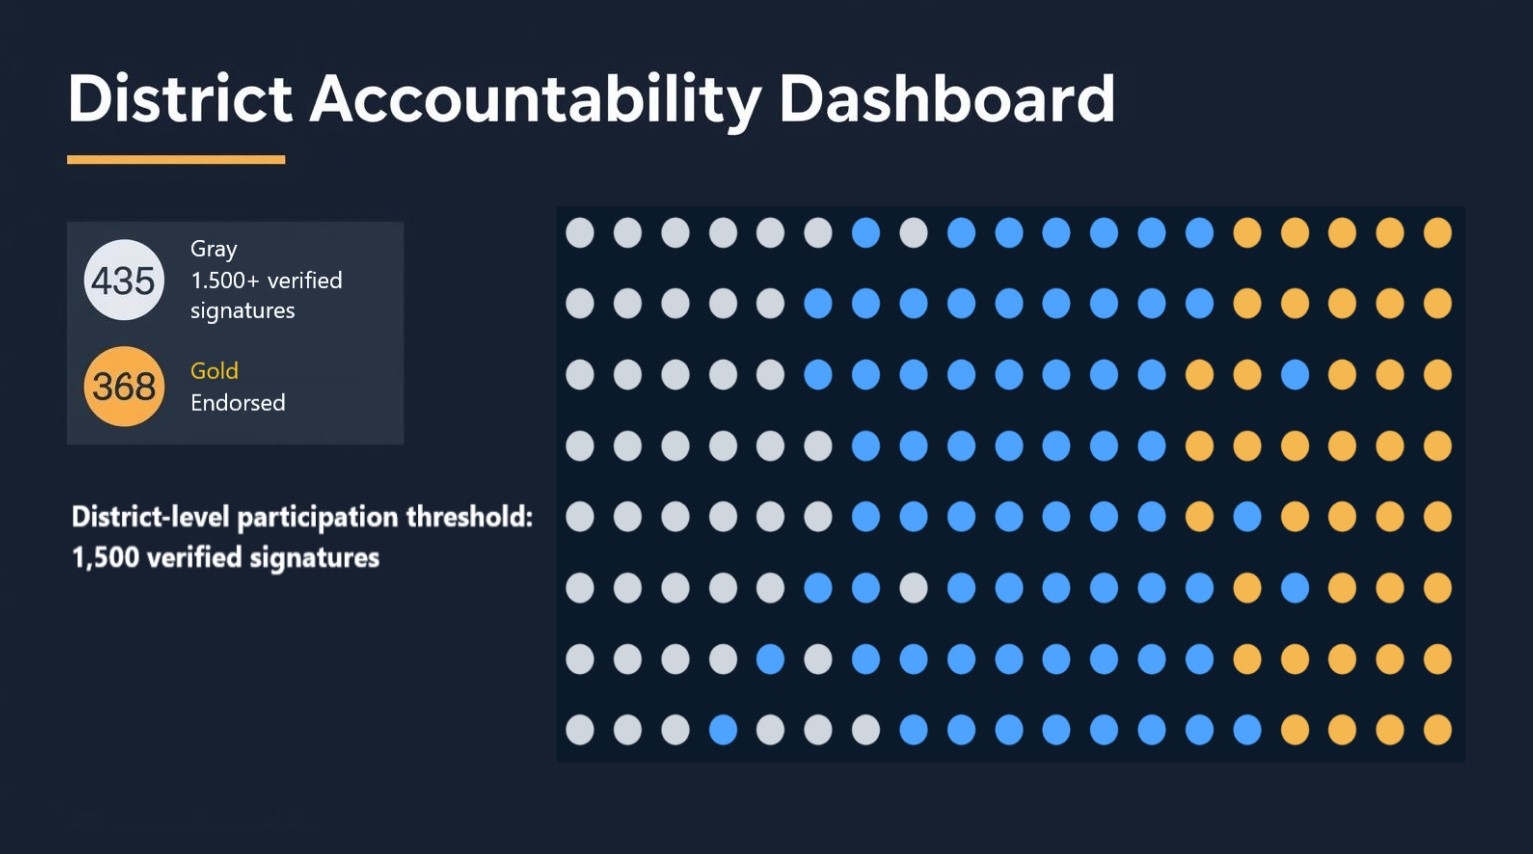
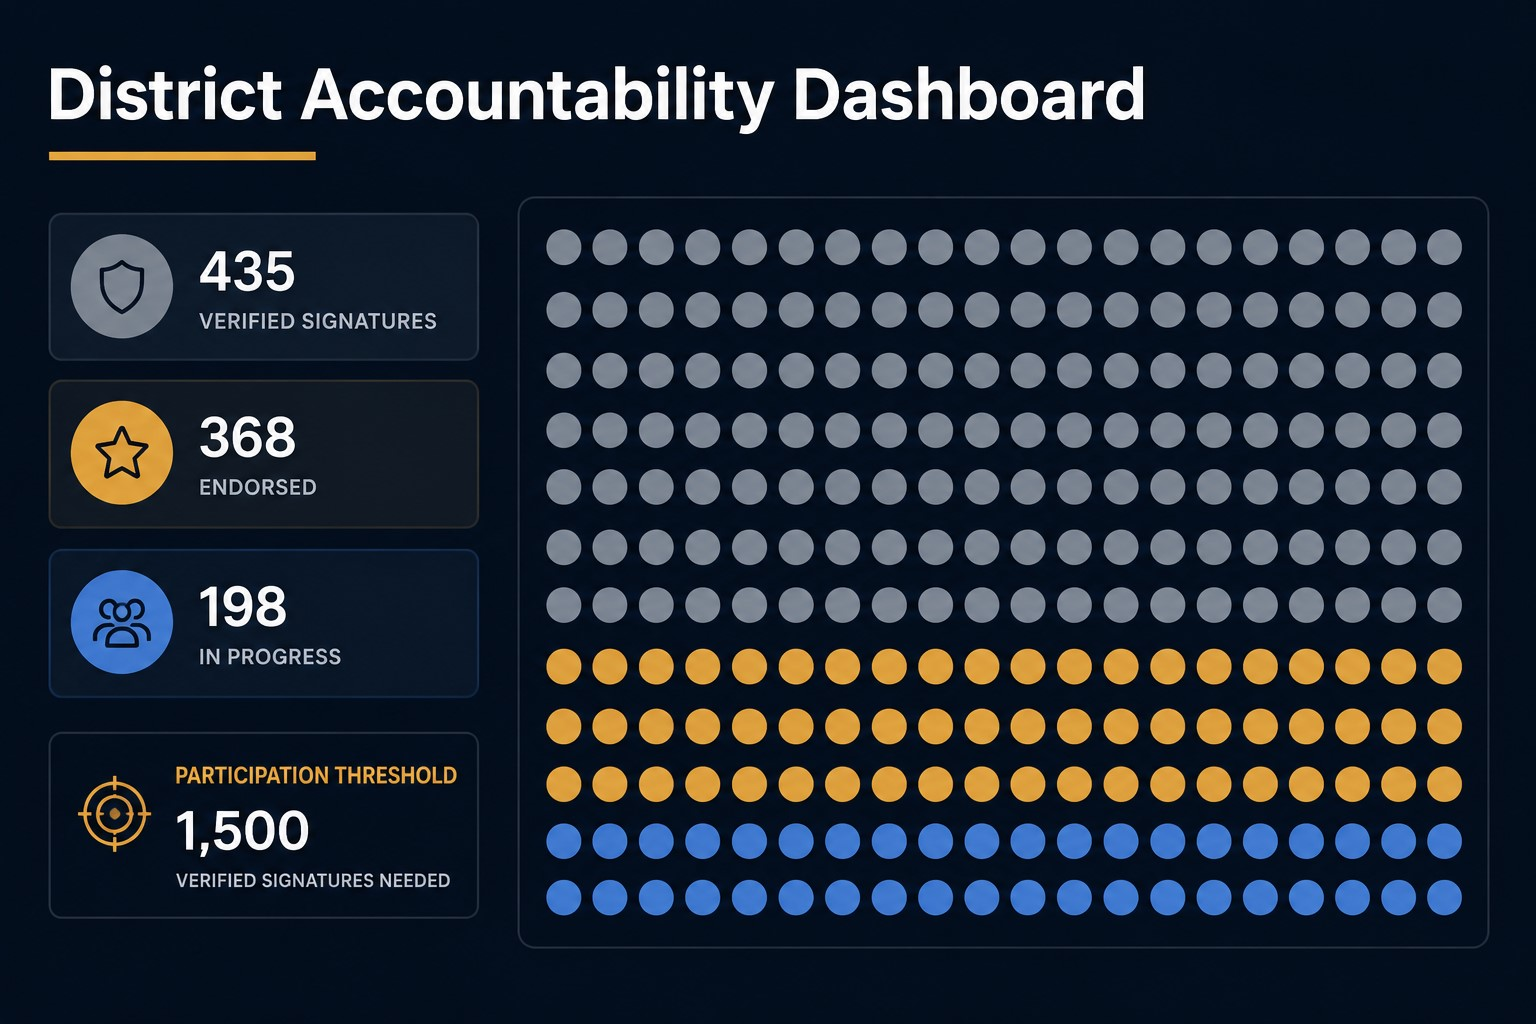
deploy: added changed image on modal to a real lever

diff --git a/app/Prophecy/movement/page.tsx b/app/Prophecy/movement/page.tsx
@@ -192,6 +192,38 @@ export default function MovementPage() {
           </p>
         </section>
 
+        {/* FAMILIES — ported from retired Unbreakable page */}
+        <section className="max-w-4xl mx-auto px-5 py-20 border-t border-gray-800">
+          <h2 className="text-3xl sm:text-4xl md:text-5xl font-bold leading-tight mb-6">Why They Asked Me</h2>
+          <div className="grid md:grid-cols-3 gap-6 items-start">
+            <div className="space-y-4">
+              <img src="/images/trilogy/Me_w_Tuskegee_Airman_George_SpankyRoberts_Family.jpg" alt="Will Price with the family of Tuskegee Airman George 'Spanky' Roberts" className="w-full rounded-lg grayscale" />
+              <img src="/images/trilogy/Me_n_Dad_at_CHURCH.jpg" alt="Will and Dad at the church Dad built" className="w-full rounded-lg grayscale" />
+            </div>
+            <div className="md:col-span-2 space-y-4 text-gray-300 text-lg">
+              <p className="font-semibold text-white">The families of the men of the 761st and the Tuskegee Airmen asked me to speak for them.</p>
+              <p>I have pictures of us together. Real photos. Real people. Real trust.</p>
+              <p>They didn't ask a university. They didn't ask a museum. They didn't ask a politician.</p>
+              <p className="font-bold text-white">They asked me — Will Price, founder of PHIERS.</p>
+              <p>Because they know their fathers and grandfathers — the men of the 761st, the Tuskegee Airmen, the forgotten battalions — never got their full story told. The government erased it. The textbooks left it out.</p>
+              <p>But the families remember. And they chose PHIERS to carry the record.</p>
+              <p className="font-bold text-white">That is not leverage we manufactured. That is leverage we were given.</p>
+              <p>And we will use it to build a future those men would be proud of — not just for Black men, but for all of humanity.</p>
+            </div>
+          </div>
+        </section>
+
+        {/* CONVICT LEASING — ported from retired Unforgettable page */}
+        <section className="max-w-4xl mx-auto px-5 py-20 border-t border-gray-800">
+          <h2 className="text-3xl sm:text-4xl md:text-5xl font-bold leading-tight mb-6">Freedom on Paper</h2>
+          <div className="space-y-4 text-gray-300 text-lg">
+            <p className="font-semibold text-white">Slavery ended on paper in 1865. The labor never stopped.</p>
+            <p>In most Southern states, Black men were immediately re-arrested after emancipation — on charges like vagrancy, "idleness," or looking at someone wrong — and leased back to plantations and mines as convict labor.</p>
+            <p>The 13th Amendment allowed it. It ran until 1941 in some states. Nearly 80 years after freedom was declared.</p>
+            <p>The men who lived through this were not criminals. They were a workforce — re-enslaved by another name, documented and legal.</p>
+          </div>
+        </section>
+
         {/* WHAT PHIERS BUILDS */}
         <section className="max-w-4xl mx-auto px-5 py-20 border border-gray-800 rounded-2xl bg-[#0b0b0b]">
           <h2 className="text-3xl sm:text-4xl md:text-5xl font-bold leading-tight mb-6">What PHIERS Builds</h2>
@@ -351,21 +383,44 @@ export default function MovementPage() {
           <p className="text-xl font-semibold mt-6">The future belongs to organized men.</p>
         </section>
 
-        {/* Closing CTA */}
+        {/* TIMELINE ADVANTAGE — ported from retired Unstoppable page */}
+        <section className="max-w-4xl mx-auto px-5 py-20 border-t border-gray-800">
+          <h2 className="text-3xl sm:text-4xl md:text-5xl font-bold leading-tight mb-6">Our Timeline, Not Theirs</h2>
+          <div className="space-y-4 text-gray-300 text-lg">
+            <p>Everyone else is focused on the midterms. That means they're playing on their timeline.</p>
+            <p className="font-bold text-white">We're playing on ours.</p>
+            <p>PHIERS works between elections. It works in every district. A member of Congress doesn't need a clean election to feel pressure.</p>
+            <p className="font-semibold text-white">This is how we move now. This is how we protect ourselves. This is how we protect everybody else.</p>
+          </div>
+        </section>
+
+        {/* CLOSING REFRAME — ported from retired Unforgettable page */}
+        <section className="max-w-3xl mx-auto px-5 py-16 text-center">
+          <p className="text-gray-200 text-lg leading-relaxed">
+            Once you see the structure, something shifts.<br />
+            You stop blaming yourself.<br />
+            You stop shrinking.<br />
+            You stop carrying weight that was never yours.
+          </p>
+        </section>
+
+        {/* Closing CTA — now a Step 3 transition to Leverage */}
         <section className="text-center py-20">
-          <section className="my-12">
-            <img src="/images/trilogy/Final_CTA_image.jpg" alt="Man walking toward sunrise" className="w-full md:w-4/5 mx-auto rounded-lg object-cover shadow-lg" />
+          <section className="my-12 max-w-2xl mx-auto">
+            <img src="/images/trilogy/sankofa-arrival.jpg" alt="A man looking forward, the road behind him" className="w-full rounded-lg object-cover shadow-lg" />
           </section>
+          <p className="text-amber-400 text-xs tracking-[0.3em] uppercase mb-3">Step 3 of 3</p>
+          <p className="text-white text-2xl font-bold mb-2">You made it this far.</p>
+          <p className="text-gray-300 leading-relaxed max-w-lg mx-auto mb-8">This is where the reward for your effort resides. Go claim it.</p>
           <div className="flex flex-col sm:flex-row gap-4 justify-center items-center">
             <Link href="/Prophecy" className="inline-block bg-transparent border border-gray-600 text-white font-bold text-base sm:text-lg md:text-xl py-3 sm:py-4 px-6 sm:px-12 rounded-full hover:bg-white/10 transition shadow-lg whitespace-nowrap">
               ← BACK TO PROPHECY
             </Link>
-            <Link href="/Prophecy/trilogy" className="inline-block bg-white text-black font-bold text-base sm:text-lg md:text-xl py-3 sm:py-4 px-6 sm:px-12 rounded-full hover:bg-gray-200 transition shadow-lg whitespace-nowrap">
-              ENTER THE TRILOGY →
+            <Link href="/Prophecy/leverage" className="inline-block bg-amber-600 hover:bg-amber-500 text-white font-bold text-base sm:text-lg md:text-xl py-3 sm:py-4 px-6 sm:px-12 rounded-full transition shadow-lg whitespace-nowrap">
+              Claim it →
             </Link>
           </div>
-          <p className="text-gray-400 mt-4">Three chapters. One mission. A future we refuse to leave unguarded.</p>
-          <p className="text-gray-500 text-sm mt-2">Or <a href="/zoom" className="underline hover:text-white">join the Zoom first</a>.</p>
+          <p className="text-gray-500 text-sm mt-4">Or <a href="/zoom" className="underline hover:text-white">join the Zoom first</a>.</p>
         </section>
 
         <footer className="border-t border-gray-800 py-8 text-center text-gray-500 text-sm">

diff --git a/app/Prophecy/leverage/page.tsx b/app/Prophecy/leverage/page.tsx
@@ -11,11 +11,8 @@ import Link from 'next/link';
 import { motion } from 'framer-motion';
 
 export default function LeveragePage() {
-  const [showArrival, setShowArrival] = useState(false);
-
   useEffect(() => {
     window.scrollTo(0, 0);
-    setShowArrival(true);
   }, []);
 
   return (
@@ -24,38 +21,6 @@ export default function LeveragePage() {
       animate={{ opacity: 1 }}
       transition={{ duration: 0.4, ease: 'easeOut' }}
     >
-      {showArrival && (
-        <div
-          className="fixed inset-0 z-[99999] flex items-center justify-center bg-black/95 backdrop-blur-sm p-4 overflow-y-auto"
-          role="dialog"
-          aria-modal="true"
-          onClick={(e) => {
-            if (e.target === e.currentTarget) setShowArrival(false);
-          }}
-        >
-          <div className="relative max-w-md w-full bg-[#0a0a0a] border border-amber-500/40 rounded-2xl overflow-hidden shadow-2xl my-auto">
-            <div className="w-full h-32 sm:h-44 overflow-hidden">
-              <img
-                src="/images/trilogy/sankofa-arrival.jpg"
-                alt="A man looking forward, the road behind him"
-                className="w-full h-full object-cover object-top"
-              />
-            </div>
-            <div className="p-8 text-center">
-              <p className="text-amber-400 text-xs tracking-[0.3em] uppercase mb-4">You made it this far</p>
-              <h2 className="text-3xl font-bold text-white mb-4">Congratulations, Black Man.</h2>
-              <p className="text-gray-300 leading-relaxed mb-8">This is where the reward for your effort resides. Go claim it.</p>
-              <button
-                onClick={() => setShowArrival(false)}
-                className="w-full bg-amber-600 hover:bg-amber-500 text-white font-bold py-3 px-6 rounded-lg transition"
-              >
-                Claim it →
-              </button>
-            </div>
-          </div>
-        </div>
-      )}
-
       <div className="sticky-header">
         <a href="https://phiers.org" target="_blank" rel="noopener noreferrer">
           <img
@@ -73,8 +38,8 @@ export default function LeveragePage() {
             <p className="text-amber-400 font-bold text-4xl sm:text-5xl tracking-wide mb-6">LEVERAGE</p>
             <div className="max-w-md mx-auto mb-8">
               <img
-                src="/images/OUR_Lever_PHIERS_Can_Move_the_World.jpg"
-                alt="PHIERS leverage artwork"
+                src="/images/trilogy/hand-on-the-lever.jpg"
+                alt="A hand gripping the lever, mid-motion"
                 className="w-full h-auto rounded-lg"
               />
             </div>
@@ -105,6 +70,13 @@ export default function LeveragePage() {
             <div>
               <p className="text-amber-400 font-bold text-sm tracking-wide uppercase mb-2">In Your District</p>
               <p className="text-gray-300 leading-[1.7]">Where the actual decisions get made — redistricting, voting laws, regulations, the policies that determine whether your family survives the next decade.</p>
+              <div className="mt-6 rounded-lg overflow-hidden border border-gray-800">
+                <img
+                  src="/images/District_Accountability_Dashboard.jpg"
+                  alt="District Accountability Dashboard showing verified signatures, endorsements, and progress toward the 1,500 threshold"
+                  className="w-full h-auto"
+                />
+              </div>
             </div>
           </div>
 
@@ -158,13 +130,7 @@ export default function LeveragePage() {
 
           {/* Secondary navigation */}
           <div className="text-center mt-6 text-gray-500 text-sm">
-            <Link href="/Prophecy/trilogy" className="hover:text-white transition">Return to Trilogy</Link>
-            <span className="mx-2">·</span>
-            <Link href="/Prophecy/unforgettable" className="hover:text-white transition">UNFORGETTABLE</Link>
-            <span className="mx-2">·</span>
-            <Link href="/Prophecy/unbreakable" className="hover:text-white transition">UNBREAKABLE</Link>
-            <span className="mx-2">·</span>
-            <Link href="/Prophecy/unstoppable" className="hover:text-white transition">UNSTOPPABLE</Link>
+            <Link href="/Prophecy/movement" className="hover:text-white transition">Back to The Movement</Link>
           </div>
 
           <footer className="border-t border-gray-800 mt-12 pt-8 text-center text-gray-500 text-sm">

diff --git a/app/Prophecy/page.tsx b/app/Prophecy/page.tsx
@@ -234,12 +234,10 @@ export default function ProphecyPage() {
             </div>
           </a>
 
-          {/* DOOR 3 — LEVERAGE -> PHIERS.org */}
-          <a
-            href="https://phiers.org"
-            target="_blank"
-            rel="noopener noreferrer"
-            className="w-full sm:flex-1 sm:min-w-[160px] bg-[#0a1628]/80 border-2 border-green-400/40 rounded-xl py-4 sm:py-5 px-3 text-center shadow-lg shadow-green-400/10 hover:border-green-400/80 hover:-translate-y-1 transition-all duration-300"
+{/* DOOR 3 — LEVERAGE -> /Prophecy/leverage (was phiers.org direct) */}
+         <a 
+            href="/Prophecy/leverage"
+            className="w-full sm:flex-1 sm:min-w-[160px] bg-[#0a1628]/80 border-2 border-green-400/40 rounded-xl py-4 sm:py-5 px-3 text-center shadow-lg shadow-green-400/10 hover:border-green-400/80 hover:-translate-y-1 transition-all duration-300 cursor-pointer block"
           >
             <div className="flex flex-col items-center">
               <img
@@ -249,7 +247,7 @@ export default function ProphecyPage() {
                 style={{ aspectRatio: 'auto', transform: 'scaleX(1.08)' }}
               />
               <div className="text-green-400 text-sm sm:text-base md:text-lg font-black tracking-wide">
-                THE SOLUTION
+                LEVERAGE
               </div>
               <div className="text-gray-400 text-xs sm:text-sm mt-1">
                 HOW we build
@@ -280,9 +278,7 @@ export default function ProphecyPage() {
         <p>A gift from Foundational Black American men to humanity. Built by Black men.</p>
         <div className="w-16 h-px bg-gray-700 mx-auto my-4" />
         <a
-          href="https://phiers.org"
-          target="_blank"
-          rel="noopener noreferrer"
+          href="/Prophecy/leverage"
           className="inline-flex flex-col items-center gap-2 opacity-60 hover:opacity-100 transition"
         >
           <img src="/images/PHIERS_Logo_BW.png" alt="PHIERS" className="w-8 h-auto" />

diff --git a/app/Prophecy/components/FloatingActNow.tsx b/app/Prophecy/components/FloatingActNow.tsx
@@ -3,8 +3,10 @@
 
 'use client';
 import { useState, useEffect } from 'react';
+import { usePathname } from 'next/navigation';
 
 export default function FloatingActNow() {
+  const pathname = usePathname();
   const [expanded, setExpanded] = useState(false);
   const [dismissed, setDismissed] = useState(false);
   const [faded, setFaded] = useState(false);
@@ -29,6 +31,7 @@ export default function FloatingActNow() {
   };
 
   if (dismissed) return null;
+  if (pathname === '/Prophecy') return null;
 
   return (
     <div